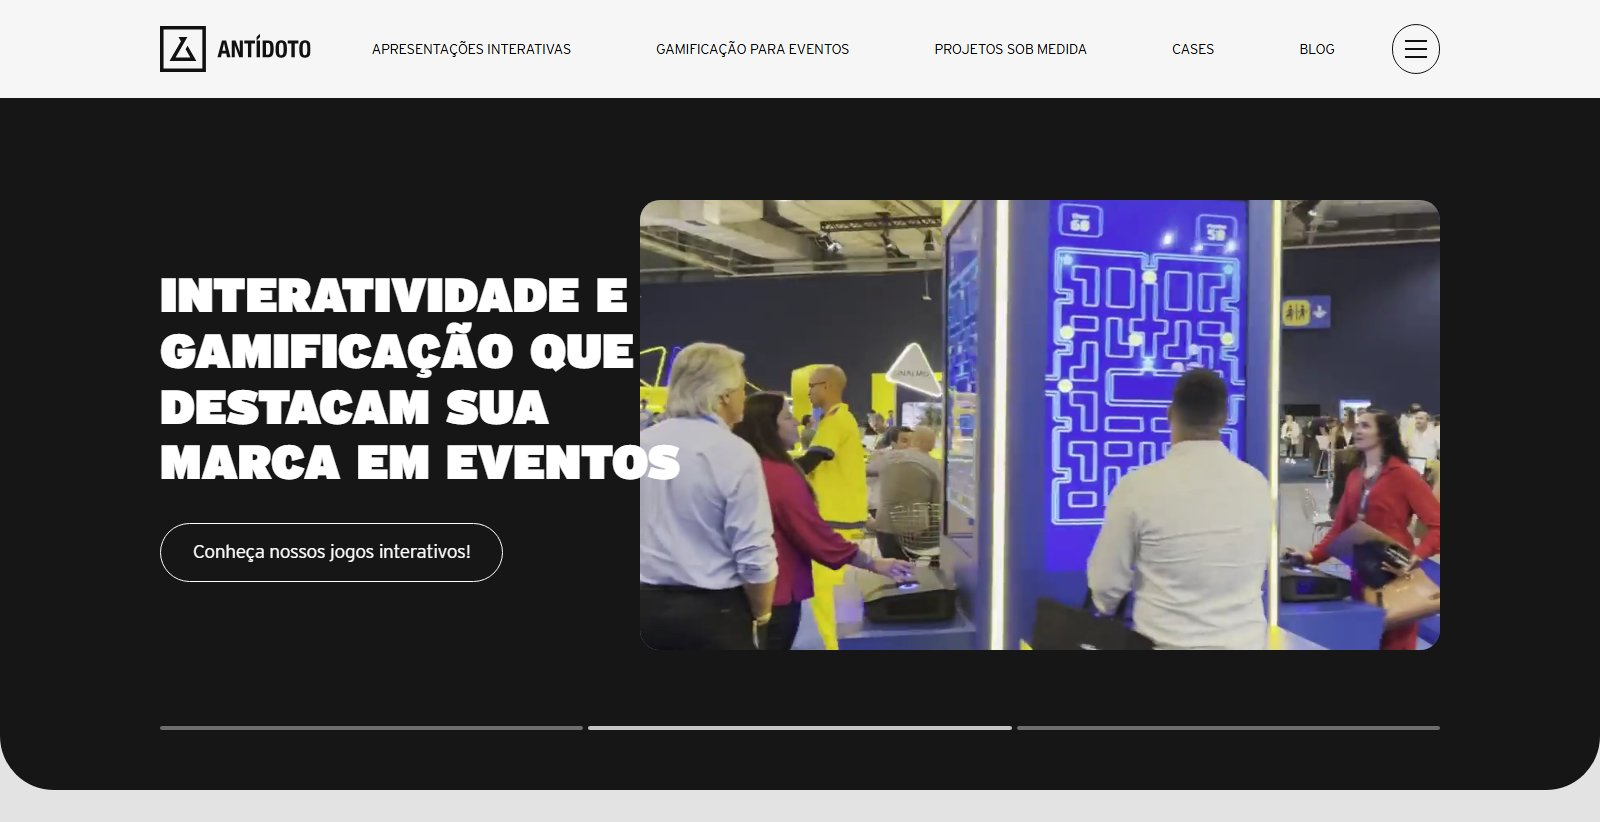
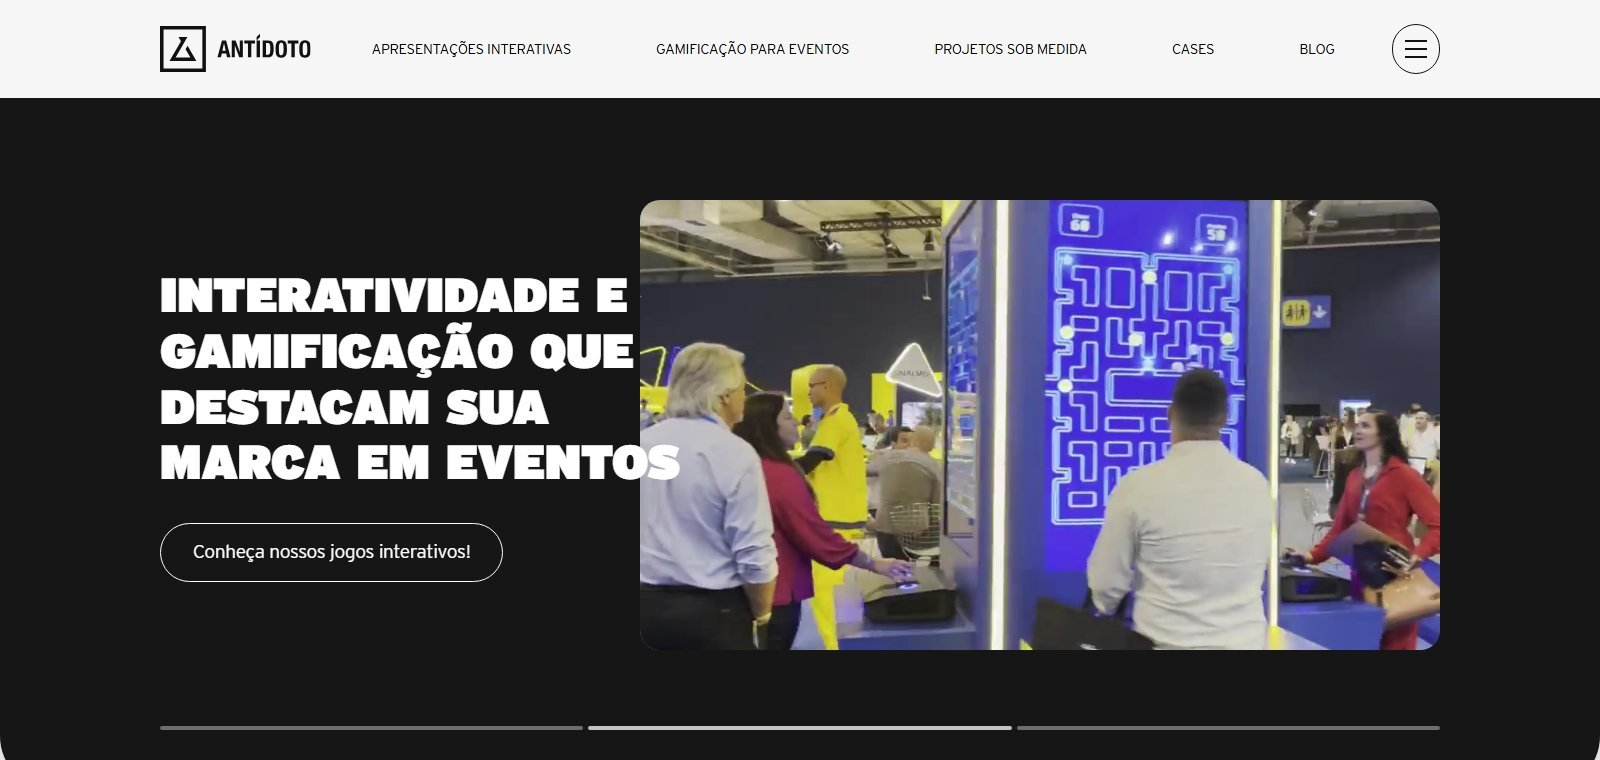
atualização dos cases

diff --git a/css/style.css b/css/style.css
@@ -742,11 +742,14 @@ body.page-method{
 /* ---------------- CASES ---------------- */
 .case-grid{display:grid; grid-template-columns:1fr 1fr; gap:20px; margin-top:44px;}
 .case-grid-3{grid-template-columns:repeat(3, 1fr);}
-/* Home: carrossel de cases — dois por vez, setas deslizam para o próximo */
+/* Carrossel de cases (home e /cases) — três por vez (dois no tablet, um no celular), setas deslizam para o próximo */
 .case-carousel{position:relative;}
 .case-viewport{overflow:hidden; margin:-20px -6px; padding:20px 6px;}
 .case-track{display:flex; gap:20px; transition:transform .6s cubic-bezier(.2,.7,.2,1);}
-.case-track > .case-panel{flex:0 0 calc((100% - 20px) / 2);}
+.case-track > .case-panel{flex:0 0 calc((100% - 40px) / 3); display:flex; flex-direction:column;}
+.case-track .body{flex:1; display:flex; flex-direction:column;}
+.case-track .case-actions{margin-top:auto;}
+@media (max-width:1020px){ .case-track > .case-panel{flex-basis:calc((100% - 20px) / 2);} }
 .case-arrow{
   position:absolute; top:34%; z-index:2; width:52px; height:52px; border-radius:50%; cursor:pointer;
   display:grid; place-items:center; font-size:1.3rem; color:#FFFFFF;
@@ -797,7 +800,7 @@ body.page-method{
 .case-panel .case-browser{border:0; border-radius:0; box-shadow:none; transform:none; background:none;}
 .case-panel .case-browser-bar{padding:11px 14px; background:linear-gradient(#222B40, #182035);}
 .case-panel .case-browser-url{max-width:none; margin:0 6px 0 0;}
-.case-panel .case-browser img{aspect-ratio:auto; height:auto;}
+.case-panel .case-browser img{aspect-ratio:1600/824; height:auto; object-fit:cover; object-position:top;}
 .case-panel .case-shot::after{
   content:""; position:absolute; left:0; right:0; bottom:0; height:62%; pointer-events:none;
   background:linear-gradient(rgba(10,31,61,0) 0%, rgba(10,31,61,.75) 55%, var(--navy-950) 100%);

diff --git a/cases/index.html b/cases/index.html
@@ -88,12 +88,15 @@
 
   <section class="section" style="padding-top:0;">
     <div class="wrap">
-      <div class="case-grid">
+      <div class="case-carousel">
+        <button type="button" class="case-arrow case-arrow-prev" aria-label="Case anterior">←</button>
+        <div class="case-viewport">
+      <div class="case-grid case-track">
         <div class="case-panel">
           <div class="case-shot">
             <div class="case-browser">
               <div class="case-browser-bar"><span class="case-browser-dots"><i></i><i></i><i></i></span><span class="case-browser-url">antidotodesign.com.br</span></div>
-              <img src="../assets/images/cases/antidoto-design.jpg" alt="Tela inicial do site da Antídoto" width="1600" height="822" loading="lazy">
+              <img src="../assets/images/cases/antidoto-design.jpg" alt="Tela inicial do site da Antídoto" width="1600" height="760" loading="lazy">
             </div>
           </div>
           <div class="bar"><span class="slug">/cases/antidoto-design</span><span class="pill">alto potencial</span></div>
@@ -157,6 +160,9 @@
             </div>
           </div>
         </div>
+      </div>
+        </div>
+        <button type="button" class="case-arrow case-arrow-next" aria-label="Próximo case">→</button>
       </div>
     </div>
   </section>

diff --git a/js/main.js b/js/main.js
@@ -274,7 +274,7 @@ var CONTACT_EMAIL = "contato@underneath.com.br";
     }
   });
 
-  // Home: carrossel de cases. As setas deslizam um card por vez; cada seta
+  // Carrossel de cases (home e /cases, 3 por vez). As setas deslizam um card por vez; cada seta
   // some quando não há mais cards naquela direção.
   document.addEventListener("DOMContentLoaded", function () {
     var carousel = document.querySelector(".case-carousel");
@@ -284,7 +284,7 @@ var CONTACT_EMAIL = "contato@underneath.com.br";
     var prev = carousel.querySelector(".case-arrow-prev");
     var next = carousel.querySelector(".case-arrow-next");
     var index = 0;
-    var perView = function () { return window.innerWidth <= 760 ? 1 : 2; };
+    var perView = function () { return window.innerWidth <= 760 ? 1 : window.innerWidth <= 1020 ? 2 : 3; };
     var update = function () {
       var max = Math.max(0, cards.length - perView());
       index = Math.min(Math.max(index, 0), max);

diff --git a/index.html b/index.html
@@ -330,7 +330,7 @@ Sitemap: https://seusite.com/sitemap.xml</pre>
           <div class="case-shot">
             <div class="case-browser">
               <div class="case-browser-bar"><span class="case-browser-dots"><i></i><i></i><i></i></span><span class="case-browser-url">antidotodesign.com.br</span></div>
-              <img src="assets/images/cases/antidoto-design.jpg" alt="Tela inicial do site da Antídoto" width="1600" height="822" loading="lazy">
+              <img src="assets/images/cases/antidoto-design.jpg" alt="Tela inicial do site da Antídoto" width="1600" height="760" loading="lazy">
             </div>
           </div>
           <div class="bar"><span class="slug">/cases/antidoto-design</span><span class="pill">alto potencial</span></div>

diff --git a/cases/antidoto-design/index.html b/cases/antidoto-design/index.html
@@ -100,7 +100,7 @@
       <div class="case-shot case-shot-lg">
             <div class="case-browser">
               <div class="case-browser-bar"><span class="case-browser-dots"><i></i><i></i><i></i></span><span class="case-browser-url">antidotodesign.com.br</span></div>
-              <img src="../../assets/images/cases/antidoto-design.jpg" alt="Tela inicial do site da Antídoto" width="1600" height="822" loading="lazy">
+              <img src="../../assets/images/cases/antidoto-design.jpg" alt="Tela inicial do site da Antídoto" width="1600" height="760" loading="lazy">
             </div>
           </div>
 
